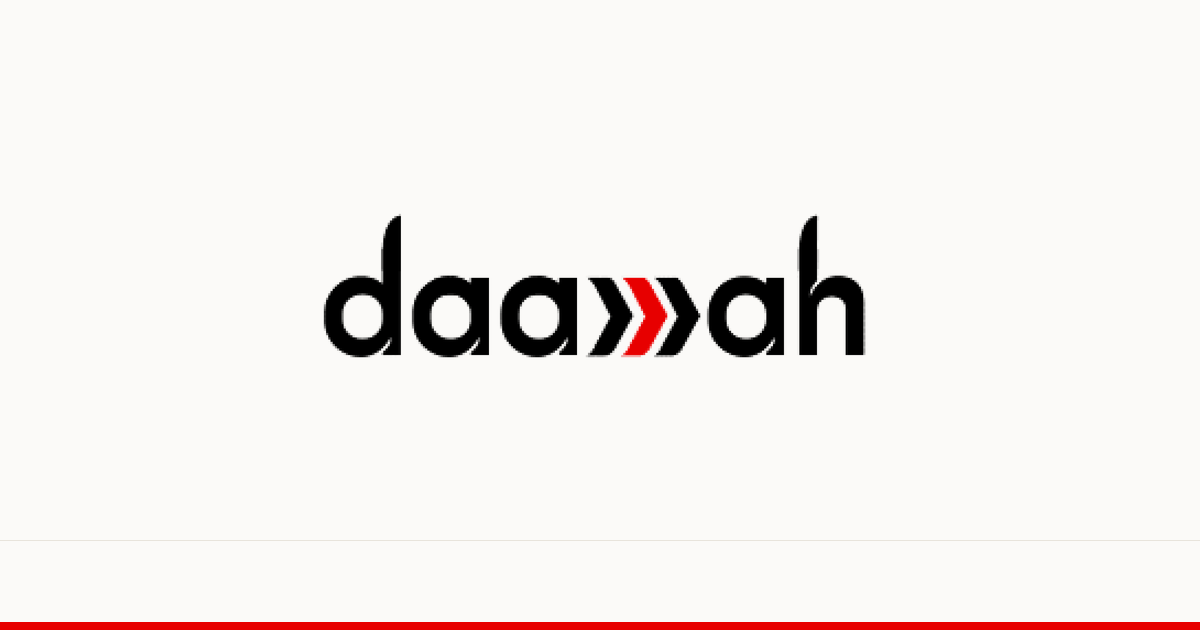
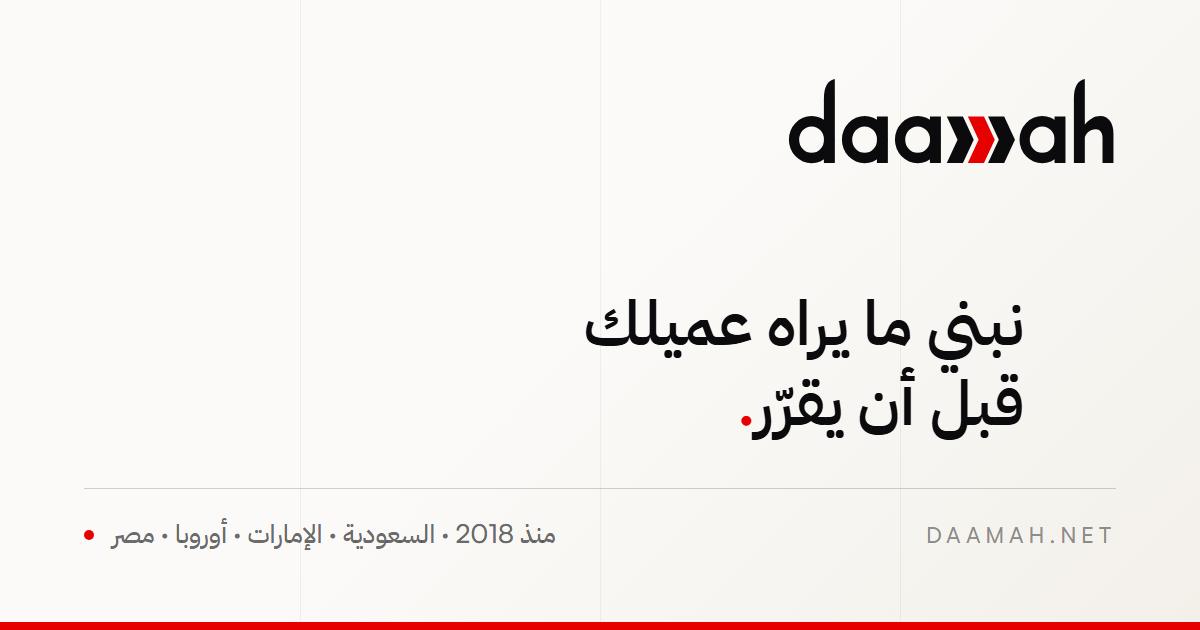
بطاقة مشاركة ببطاقتها لكل لغة، واسم التطبيق على الجوال، وهيرو الإنجليزية على الشاشات الضيّقة
بطاقة المشاركة يقرؤها إنسان في محادثة لا زاحف بحث، فعنوانها ووصفها
غير عنوان نتائج البحث ووصفه، وصورتها تحمل سطرًا ليس سطر الهيرو حتى
لا تكون صدى للصفحة التي تفتحها. ولكل لغة بطاقتها وملف تطبيقها،
فالاسم تحت الأيقونة على الجوال يتبع لغة الصفحة التي ثُبِّتت منها.

وعنوان الهيرو بالإنجليزية كان يفيض عن عرض الجوال فينكسر فوق كسره
المصمَّم: الحدّ الأدنى لحجمه صار نسبة من عرض الشاشة، وسطر الأسواق
ضاق تتبّعه قليلًا فعاد سطرًا واحدًا.

diff --git a/vite.config.ts b/vite.config.ts
@@ -99,7 +99,7 @@ function blogStats(): Plugin {
 function routeIndex(): Plugin {
   const ID = "virtual:routes";
   const RESOLVED = `\0${ID}`;
-  const KEEP = ["path", "title", "description", "kind", "parent", "langs"] as const;
+  const KEEP = ["path", "title", "description", "kind", "parent", "langs", "share"] as const;
 
   return {
     name: "daamah:route-index",
@@ -158,7 +158,7 @@ function prerender(): Plugin {
       const outDir = "dist";
       const entry = pathToFileURL(resolve(".ssr/entry-server.js")).href;
       const ssr = await import(/* @vite-ignore */ entry);
-      const { routes, SITE_URL, OG_IMAGE, graphFor, withLang, siteName } = ssr;
+      const { routes, SITE_URL, ogFor, graphFor, withLang, siteName } = ssr;
 
       const template = readFileSync(join(outDir, "index.html"), "utf8");
       const urls: string[] = [];
@@ -171,6 +171,7 @@ function prerender(): Plugin {
           title: Record<Lang, string>;
           description: Record<Lang, string>;
           image?: string;
+          share?: { title: Record<Lang, string>; description: Record<Lang, string> };
         },
         lang: Lang,
         opts: { noindex?: boolean; alternates?: boolean } = {},
@@ -179,7 +180,10 @@ function prerender(): Plugin {
         const url = `${SITE_URL}${localized}`;
         const title = route.title[lang];
         const desc = route.description[lang];
-        const image = `${SITE_URL}${route.image ?? OG_IMAGE}`;
+        /* بطاقة المشاركة تقرؤها عين لا زاحف — فنصّها غير نصّ النتائج حين يوجد */
+        const shareTitle = route.share?.title[lang] ?? title;
+        const shareDesc = route.share?.description[lang] ?? desc;
+        const image = `${SITE_URL}${route.image ?? ogFor(lang)}`;
 
         /* React 19 يرفع وسوم الموارد (preload للصور مثلًا) إلى مقدّمة
            ما يرسمه. وهي في المتصفح تذهب إلى `<head>` لا إلى الجذر،
@@ -211,18 +215,21 @@ function prerender(): Plugin {
           ...PRELOAD[lang].map(
             (f) => `<link rel="preload" as="font" type="font/woff2" href="${f}" crossorigin />`,
           ),
-          `<meta property="og:title" content="${esc(title)}" />`,
-          `<meta property="og:description" content="${esc(desc)}" />`,
+          `<meta property="og:title" content="${esc(shareTitle)}" />`,
+          `<meta property="og:description" content="${esc(shareDesc)}" />`,
           `<meta property="og:url" content="${url}" />`,
           `<meta property="og:locale" content="${lang === "ar" ? "ar_AR" : "en_US"}" />`,
+          /* iOS يقرأ اسم أيقونة الشاشة الرئيسية من هنا لا من الـ manifest */
+          `<meta name="apple-mobile-web-app-title" content="${esc(siteName[lang])}" />`,
+          `<meta name="application-name" content="${esc(siteName[lang])}" />`,
             `<meta property="og:site_name" content="${esc(siteName[lang])}" />`,
           `<meta property="og:image" content="${image}" />`,
           `<meta property="og:image:width" content="1200" />`,
           `<meta property="og:image:height" content="630" />`,
           `<meta property="og:image:alt" content="${esc(title)}" />`,
           `<meta name="twitter:card" content="summary_large_image" />`,
-          `<meta name="twitter:title" content="${esc(title)}" />`,
-          `<meta name="twitter:description" content="${esc(desc)}" />`,
+          `<meta name="twitter:title" content="${esc(shareTitle)}" />`,
+          `<meta name="twitter:description" content="${esc(shareDesc)}" />`,
           `<meta name="twitter:image" content="${image}" />`,
           `<script type="application/ld+json">${jsonLd(graphFor(route.path, lang))}</script>`,
         ]
@@ -236,6 +243,13 @@ function prerender(): Plugin {
           .replace(
             /<html lang="[^"]*" dir="[^"]*">/,
             `<html lang="${lang}" dir="${lang === "ar" ? "rtl" : "ltr"}">`,
+          )
+          /* لكل لغة ملف تطبيقها: الاسم الذي يظهر تحت الأيقونة حين
+             يُثبَّت الموقع على الجوال يُقرأ من الـ manifest وقت
+             التحميل، فلا يكفي تبديله بعد إقلاع جافاسكربت */
+          .replace(
+            '<link rel="manifest" href="/site.webmanifest" />',
+            `<link rel="manifest" href="${lang === "en" ? "/site-en.webmanifest" : "/site.webmanifest"}" />`,
           )
           .replace("</head>", `  ${head}\n  </head>`)
           .replace('<div id="root"></div>', `<div id="root">${body}</div>`);

diff --git a/src/components/Seo.tsx b/src/components/Seo.tsx
@@ -2,7 +2,7 @@ import { useEffect } from "react";
 import { useLocation } from "react-router-dom";
 import { stripLang, useLang, withLang } from "../i18n";
 import routes from "virtual:routes";
-import { OG_IMAGE, SITE_URL } from "../seo/site";
+import { SITE_URL, ogFor } from "../seo/site";
 import { brand } from "../content/home";
 
 const findRoute = (path: string) => routes.find((r) => r.path === path);
@@ -72,16 +72,26 @@ export function Seo() {
     const url = `${SITE_URL}${withLang(bare, lang)}`;
     link("canonical", url);
 
-    meta("property", "og:title", title);
-    meta("property", "og:description", desc);
+    /* ملف التطبيق يتبع اللغة: اسم الأيقونة على شاشة الجوال يُقرأ منه.
+       الصفحات تصل مرسومةً ومعها ملفها الصحيح، وهذا السطر لمن بدّل
+       اللغة داخل الموقع بلا إعادة تحميل. */
+    link("manifest", lang === "en" ? "/site-en.webmanifest" : "/site.webmanifest");
+    meta("name", "apple-mobile-web-app-title", t(brand.name));
+    meta("name", "application-name", t(brand.name));
+
+    const shareTitle = route?.share ? t(route.share.title) : title;
+    const shareDesc = route?.share ? t(route.share.description) : desc;
+
+    meta("property", "og:title", shareTitle);
+    meta("property", "og:description", shareDesc);
     meta("property", "og:url", url);
     meta("property", "og:locale", lang === "ar" ? "ar_AR" : "en_US");
     meta("property", "og:site_name", t(brand.name));
-    meta("property", "og:image", `${SITE_URL}${OG_IMAGE}`);
+    meta("property", "og:image", `${SITE_URL}${ogFor(lang)}`);
     meta("name", "twitter:card", "summary_large_image");
-    meta("name", "twitter:title", title);
-    meta("name", "twitter:description", desc);
-    meta("name", "twitter:image", `${SITE_URL}${OG_IMAGE}`);
+    meta("name", "twitter:title", shareTitle);
+    meta("name", "twitter:description", shareDesc);
+    meta("name", "twitter:image", `${SITE_URL}${ogFor(lang)}`);
     meta("property", "og:image:width", "1200");
     meta("property", "og:image:height", "630");
 

diff --git a/src/content/seo.ts b/src/content/seo.ts
@@ -63,6 +63,14 @@ export type RouteMeta = {
   lastmod?: string;
   /** صورة تمثّل الصفحة — لخريطة الموقع ولوسوم المشاركة */
   image?: string;
+  /**
+   * عنوان ووصف المشاركة حين يختلفان عن عنوان الصفحة ووصفها.
+   *
+   * عنوان نتائج البحث مكتوبٌ لمحرّك بحث: يحمل الكلمات التي يُبحث بها.
+   * وبطاقة المشاركة يقرؤها إنسان في محادثة، فالكلمات المفتاحية فيها
+   * تقرأ كإعلانٍ مبوّب لا كشركة. لذلك يفترقان حين يلزم.
+   */
+  share?: { title: Bi; description: Bi };
 };
 
 const home: RouteMeta = {
@@ -74,6 +82,16 @@ const home: RouteMeta = {
   description: {
     ar: "شركة عالمية تبني منذ 2018 حضورًا رقميًا متكاملًا: هوية بصرية، مواقع إلكترونية، سوشيال ميديا، وتسويق رقمي يحقق نتائج — للشركات في الخليج ومصر وأوروبا.",
     en: "A global company building complete digital presence since 2018 — brand identity, websites, social media, and marketing that performs."
+  },
+  share: {
+    title: {
+      ar: "دَعمة للحلول الرقمية — شريكك في بناء حضور يليق بشركتك",
+      en: "Daamah Digital Solutions — building presence that fits your company",
+    },
+    description: {
+      ar: "منذ 2018 نبني للشركات هوية بصرية ومواقع وحضورًا رقميًا متكاملًا — في السعودية والخليج وأوروبا ومصر.",
+      en: "Since 2018 we build brand identity, websites, and complete digital presence for companies across Saudi Arabia, the Gulf, Europe, and Egypt.",
+    },
   },
   priority: 1,
   kind: "home",

diff --git a/src/styles/globals.css b/src/styles/globals.css
@@ -166,6 +166,16 @@ html[lang="ar"] .display {
   line-height: 1.22;
   font-size: clamp(2.5rem, 7.1vw, 6.75rem);
 }
+/* الشاشات الضيّقة: كلمات الإنجليزية أطول من العربية، فأطول سطر في
+   الهيرو («Presence that gets») يفيض عن عرض الجوال فينكسر — والعنوان
+   مكسورٌ سطوره يدويًا بالتصميم، فكسرٌ ثانٍ فوقه يُفقده شكله. الحدّ
+   الأدنى هنا نسبةٌ من عرض الشاشة لا رقمٌ ثابت، فيتسع السطر أيًّا كان
+   الجهاز. */
+@media (max-width: 600px) {
+  html[lang="en"] .display {
+    font-size: min(11vw, 2.9rem);
+  }
+}
 
 /* الجملة الكبيرة — لحظة البيان */
 .lede {
@@ -221,6 +231,13 @@ html[lang="ar"] .tag {
   font-weight: 500;
   letter-spacing: 0;
   text-transform: none;
+}
+/* لافتة طويلة على شاشة ضيّقة: التتبّع الواسع وحده هو ما يدفع آخر
+   كلمة إلى سطر ثانٍ، فيُضيَّق عند الحاجة بدل قصّ النصّ أو تصغيره */
+@media (max-width: 600px) {
+  html[lang="en"] .tag-tight {
+    letter-spacing: 0.1em;
+  }
 }
 
 /* الأرقام: مصفوفة العرض حتى لا ترقص أثناء العدّ */

diff --git a/src/sections/Hero.tsx b/src/sections/Hero.tsx
@@ -135,7 +135,10 @@ export function Hero() {
               </span>
               <span className="tag text-ink/70">{t(hero.status)}</span>
             </span>
-            <span className="tag text-ink/35">{t(hero.markets)}</span>
+            {/* سطر الأسواق بالإنجليزية أعرض من الجوال بمقدار كلمة، فتسقط
+                «Egypt» وحدها في سطر ثانٍ. التتبّع وحده يسعه: أضيق قليلًا
+                على الشاشة الصغيرة فيبقى سطرًا واحدًا */}
+            <span className="tag tag-tight text-ink/35">{t(hero.markets)}</span>
           </Reveal>
 
           {/* ── العنوان ── */}

diff --git a/src/seo/site.ts b/src/seo/site.ts
@@ -9,5 +9,12 @@ import { brand } from "../content/home";
  */
 export const SITE_URL = `https://${brand.domain}`;
 
-/** صورة المعاينة الافتراضية عند مشاركة رابط. */
+/**
+ * صورة المعاينة عند مشاركة رابط — لكل لغة بطاقتها.
+ *
+ * البطاقة تحمل سطرًا من نصّ الموقع، فبطاقةٌ عربية على رابط إنجليزي
+ * تقول للمستقبِل إن الصفحة بلغةٍ لا يقرؤها.
+ */
 export const OG_IMAGE = "/assets/og-default.png";
+export const OG_IMAGE_EN = "/assets/og-en.png";
+export const ogFor = (lang: "ar" | "en") => (lang === "en" ? OG_IMAGE_EN : OG_IMAGE);

diff --git a/src/entry-server.tsx b/src/entry-server.tsx
@@ -34,6 +34,7 @@ export async function render(url: string): Promise<string> {
 /* تُقرأ من إضافة البناء — فلا تستورد `src/content` مباشرةً، وتبقى
    قادرةً لاحقًا على قراءة مسارات تُكتشف بـ `import.meta.glob` */
 export { routes, SITE_URL, OG_IMAGE, findRoute } from "./content/seo";
+export { ogFor } from "./seo/site";
 export { postsIn } from "./content/blog";
 export { BLOG_ENABLED } from "./content/features";
 export { graphFor } from "./seo/schema";

diff --git a/src/env.d.ts b/src/env.d.ts
@@ -48,6 +48,7 @@ declare module "virtual:routes" {
     kind: string;
     parent?: string;
     langs?: ("ar" | "en")[];
+    share?: { title: { ar: string; en: string }; description: { ar: string; en: string } };
   }[];
   export default routes;
 }
